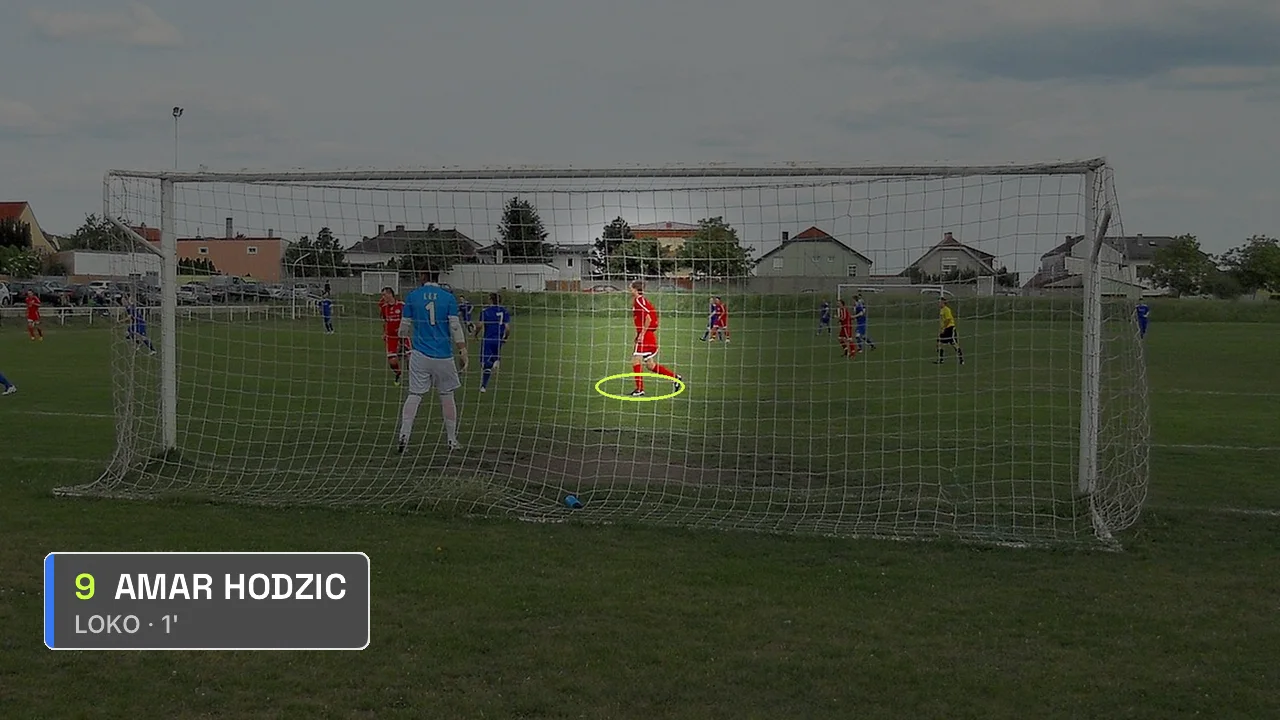
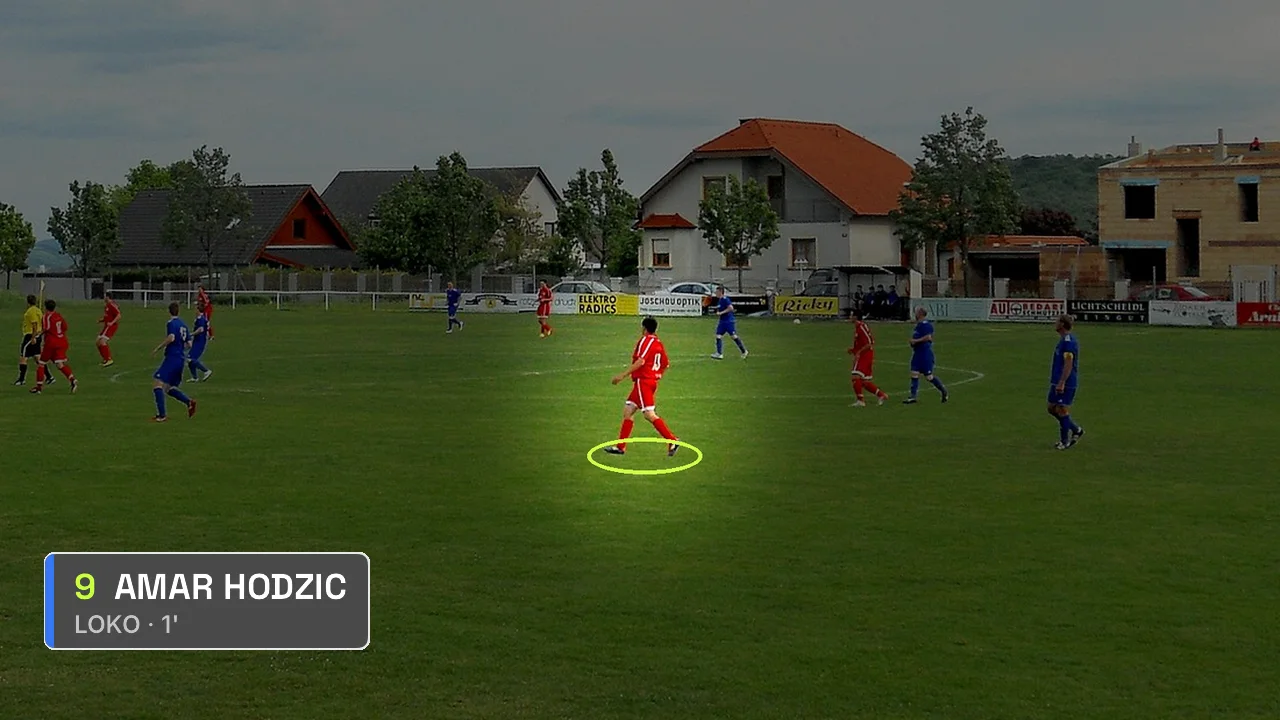
Side-on match pictures, menu button font

diff --git a/assets/site.css b/assets/site.css
@@ -104,7 +104,8 @@ h1, h2, h3, h4 { font-family: var(--font-display); font-weight: 600; color: var(
 .menu-btn { display: none; place-items: center; width: var(--size-touch); height: var(--size-touch); padding: 0; border: 1px solid var(--line-emphasis); border-radius: var(--radius-pill); background: transparent; color: var(--ink); cursor: pointer; }
 .menu-btn .mb-close, .navbar.open .menu-btn .mb-open { display: none; }
 .navbar.open .menu-btn .mb-close { display: inline; }
-.nav-links .nav-cta { display: none; }
+.nav-links .nav-cta { display: none; min-height: var(--size-button); color: var(--on-signal); font: 600 16px/1.2 var(--font-sans); }
+.nav-links .nav-cta:hover { color: var(--on-signal); }
 .nav-tools { display: flex; align-items: center; gap: var(--space-2); }
 .lang { display: flex; gap: var(--space-1); }
 .lang a {
@@ -169,11 +170,11 @@ figcaption { color: var(--ink-quiet); font-size: 13px; line-height: 1.45; }
 .bug-sep { color: var(--ink-quiet); }
 .bug-clock { padding: 0 calc(1.6 * var(--u)); background: var(--surface-2); }
 .rp { position: absolute; right: calc(2.6 * var(--u)); top: calc(2.6 * var(--u)); width: calc(38 * var(--u)); display: flex; flex-direction: column; gap: calc(.8 * var(--u)); opacity: 0; animation: air-rp 14s infinite; }
-.rp-pic { --px: 50.5%; --py: 51%; position: relative; aspect-ratio: 16 / 9; border: calc(.35 * var(--u)) solid var(--ink); border-radius: calc(1 * var(--u)); background: var(--pitch-stripe); overflow: hidden; }
+.rp-pic { --px: 50.4%; --py: 54%; position: relative; aspect-ratio: 16 / 9; border: calc(.35 * var(--u)) solid var(--ink); border-radius: calc(1 * var(--u)); background: var(--pitch-stripe); overflow: hidden; }
 .rp-pic img { position: absolute; inset: 0; width: 100%; height: 100%; object-fit: cover; }
 .rp-tag { position: absolute; left: calc(1.2 * var(--u)); top: calc(1.2 * var(--u)); padding: calc(.5 * var(--u)) calc(1 * var(--u)); border-radius: calc(.8 * var(--u)); background: var(--ink); color: var(--on-signal); font-size: calc(1.5 * var(--u)); font-weight: 700; letter-spacing: .08em; }
 .rp-dim { position: absolute; inset: 0; background: radial-gradient(ellipse 13% 36% at var(--px) var(--py), transparent 0 60%, rgba(10,12,13,.4) 100%); }
-.rp-ring { position: absolute; left: calc(var(--px) - 5%); top: calc(var(--py) + 5%); width: 10%; height: 7%; border: calc(.4 * var(--u)) solid var(--signal); border-radius: 50%; animation: air-ring 1.6s infinite; }
+.rp-ring { position: absolute; left: calc(var(--px) - 5%); top: calc(var(--py) + 6%); width: 10%; height: 7%; border: calc(.4 * var(--u)) solid var(--signal); border-radius: 50%; animation: air-ring 1.6s infinite; }
 .rp-cap { display: flex; align-items: center; gap: calc(1.2 * var(--u)); height: calc(4.4 * var(--u)); padding: 0 calc(1.4 * var(--u)) 0 0; border-radius: calc(1 * var(--u)); overflow: hidden; background: var(--bg); font-size: calc(1.9 * var(--u)); line-height: 1; }
 .rp-cap i { align-self: stretch; width: calc(.7 * var(--u)); background: var(--signal); }
 .rp-cap b { color: var(--signal); font-weight: 600; }

diff --git a/blog/equipment-to-film-amateur-football-match.html b/blog/equipment-to-film-amateur-football-match.html
@@ -58,7 +58,7 @@
   <p class="eyebrow"><a href="index.html">Blog</a></p>
   <h1>What you need to film an amateur football match: equipment and costs</h1>
   <p class="updated"><time datetime="2026-11-24">24 November 2026</time> · Kadar</p>
-<figure class="shot post-cover"><img src="../assets/match-live.webp" width="1600" height="900" alt="An amateur football match on a village pitch, seen from the touchline."><figcaption>An amateur match filmed from the touchline. Photo: BikeMike, Wikimedia Commons, CC0.</figcaption></figure>
+<figure class="shot post-cover"><img src="../assets/match-live.webp" width="1600" height="900" alt="An amateur football match on a village pitch, seen from the side at the halfway line."><figcaption>An amateur match filmed from the side at the halfway line. Photo: BikeMike, Wikimedia Commons, CC0.</figcaption></figure>
 <p>Clubs often put off filming their matches because they think it needs a camera, a laptop and someone who understands both. It does not. Most of what you need is already in somebody's pocket. Here is the list, in the order in which it matters.</p>
 
 <h2>1. A phone</h2>
@@ -66,7 +66,7 @@
 
 <h2>2. A tripod, the one thing you must buy</h2>
 <p>A steady picture is the difference between a broadcast and a shaky video. A simple tripod with a phone holder costs about as much as a match ball. A taller one, around two metres, is worth the extra money because height lets viewers see over the players nearest to you.</p>
-<figure class="shot"><img src="../assets/match-live.webp" width="1600" height="900" loading="lazy" alt="An amateur football match on a village pitch, seen from the touchline."><figcaption>An amateur match filmed from the touchline. Photo: BikeMike, Wikimedia Commons, CC0.</figcaption></figure>
+<figure class="shot"><img src="../assets/match-live.webp" width="1600" height="900" loading="lazy" alt="An amateur football match on a village pitch, seen from the side at the halfway line."><figcaption>An amateur match filmed from the side at the halfway line. Photo: BikeMike, Wikimedia Commons, CC0.</figcaption></figure>
 
 <h2>3. Power</h2>
 <p>Filming and streaming at the same time empty a battery within one match. Take a power bank and a cable long enough to reach from the tripod's foot to the phone. Plug it in before kick-off; do not wait for the warning.</p>

diff --git a/bs/blog/oprema-za-snimanje-amaterske-utakmice.html b/bs/blog/oprema-za-snimanje-amaterske-utakmice.html
@@ -58,7 +58,7 @@
   <p class="eyebrow"><a href="index.html">Blog</a></p>
   <h1>Šta vam treba za snimanje amaterske utakmice: oprema i troškovi</h1>
   <p class="updated"><time datetime="2026-11-24">24. novembra 2026.</time> · Kadar</p>
-<figure class="shot post-cover"><img src="../../assets/match-live.webp" width="1600" height="900" alt="Amaterska fudbalska utakmica na seoskom terenu, viđena s aut-linije."><figcaption>Amaterska utakmica snimljena s aut-linije. Fotografija: BikeMike, Wikimedia Commons, CC0.</figcaption></figure>
+<figure class="shot post-cover"><img src="../../assets/match-live.webp" width="1600" height="900" alt="Amaterska fudbalska utakmica na seoskom terenu, viđena sa strane, sa središnje linije."><figcaption>Amaterska utakmica snimljena sa strane, sa središnje linije. Fotografija: BikeMike, Wikimedia Commons, CC0.</figcaption></figure>
 <p>Klubovi često odgađaju snimanje utakmica jer misle da trebaju kameru, laptop i nekoga ko se razumije u oboje. Ne trebaju. Većina potrebnog već je u nečijem džepu. Evo liste, redom po važnosti.</p>
 
 <h2>1. Telefon</h2>
@@ -66,7 +66,7 @@
 
 <h2>2. Stativ, jedino što morate kupiti</h2>
 <p>Mirna slika je razlika između prenosa i drhtavog videa. Jednostavan stativ s držačem za telefon košta otprilike koliko i lopta za utakmicu. Viši, oko dva metra, vrijedi dodatnog novca jer visina gledaocima omogućava da vide preko igrača koji su vam najbliži.</p>
-<figure class="shot"><img src="../../assets/match-live.webp" width="1600" height="900" loading="lazy" alt="Amaterska fudbalska utakmica na seoskom terenu, viđena s aut-linije."><figcaption>Amaterska utakmica snimljena s aut-linije. Fotografija: BikeMike, Wikimedia Commons, CC0.</figcaption></figure>
+<figure class="shot"><img src="../../assets/match-live.webp" width="1600" height="900" loading="lazy" alt="Amaterska fudbalska utakmica na seoskom terenu, viđena sa strane, sa središnje linije."><figcaption>Amaterska utakmica snimljena sa strane, sa središnje linije. Fotografija: BikeMike, Wikimedia Commons, CC0.</figcaption></figure>
 
 <h2>3. Napajanje</h2>
 <p>Snimanje i prenos u isto vrijeme isprazne bateriju tokom jedne utakmice. Ponesite prenosnu bateriju i kabl dovoljno dug da stigne od podnožja stativa do telefona. Priključite ga prije početka; ne čekajte upozorenje.</p>

diff --git a/bs/index.html b/bs/index.html
@@ -138,7 +138,7 @@
         <p>Gol ili dodir na highlight označava trenutak. Pogledajte ga u pregledu koji vidite samo vi, pa pustite ponovljeni snimak u prenos, u prozoru u uglu, dok slika uživo teče dalje.</p>
         <ul class="ticks"><li>Potpis ispod ponovljenog snimka: igrač, broj, klub i minuta</li><li>Raširite prozor pregleda prstima da ga povećate ili ga odvucite u drugi ugao</li><li>Puštanje ponovljenog snimka u prenos i potpis su PRO</li></ul>
         <figure class="shot">
-          <img src="../assets/replay-air.webp" width="1280" height="720" loading="lazy" alt="Sličica videa koji ide u prenos, preko amaterske utakmice: gore lijevo semafor, a gore desno prozor ponovljenog snimka s oznakom Replay koji prikazuje gol, s potpisom ispod: 9, Amar, Loko, prva minuta.">
+          <img src="../assets/replay-air.webp" width="1280" height="720" loading="lazy" alt="Sličica videa koji ide u prenos, preko amaterske utakmice: gore lijevo semafor, a gore desno prozor ponovljenog snimka s oznakom Replay koji ponovo prikazuje napad, s potpisom ispod: 9, Amar, Loko, prva minuta.">
           <figcaption>Sličica videa koji ide u prenos, s prozorom ponovljenog snimka i potpisom. Grafika je iz aplikacije u simulatoru; simulator nema kameru, pa sliku kamere zamjenjuju fotografije amaterske utakmice. Imena su primjer.</figcaption>
         </figure>
       </article>

diff --git a/index.html b/index.html
@@ -138,7 +138,7 @@
         <p>A goal or a highlight tap marks the moment. Watch it in a preview only you can see, then show the replay on the stream in a corner window while the live picture continues.</p>
         <ul class="ticks"><li>Caption under the replay: player, number, club and minute</li><li>Pinch the preview window to make it larger, or drag it to another corner</li><li>Showing the replay on the stream and the caption are PRO</li></ul>
         <figure class="shot">
-          <img src="assets/replay-air.webp" width="1280" height="720" loading="lazy" alt="A frame of the outgoing video over an amateur match: the scoreboard top left, and top right a replay window labelled Replay showing the goalmouth, with a caption under it reading 9, Amar, Loko, first minute.">
+          <img src="assets/replay-air.webp" width="1280" height="720" loading="lazy" alt="A frame of the outgoing video over an amateur match: the scoreboard top left, and top right a replay window labelled Replay showing the attack again, with a caption under it reading 9, Amar, Loko, first minute.">
           <figcaption>A frame of the outgoing video with the replay window and its caption. The graphics are from the app in the simulator; the simulator has no camera, so photos of an amateur match stand in for the camera picture. Sample names.</figcaption>
         </figure>
       </article>
